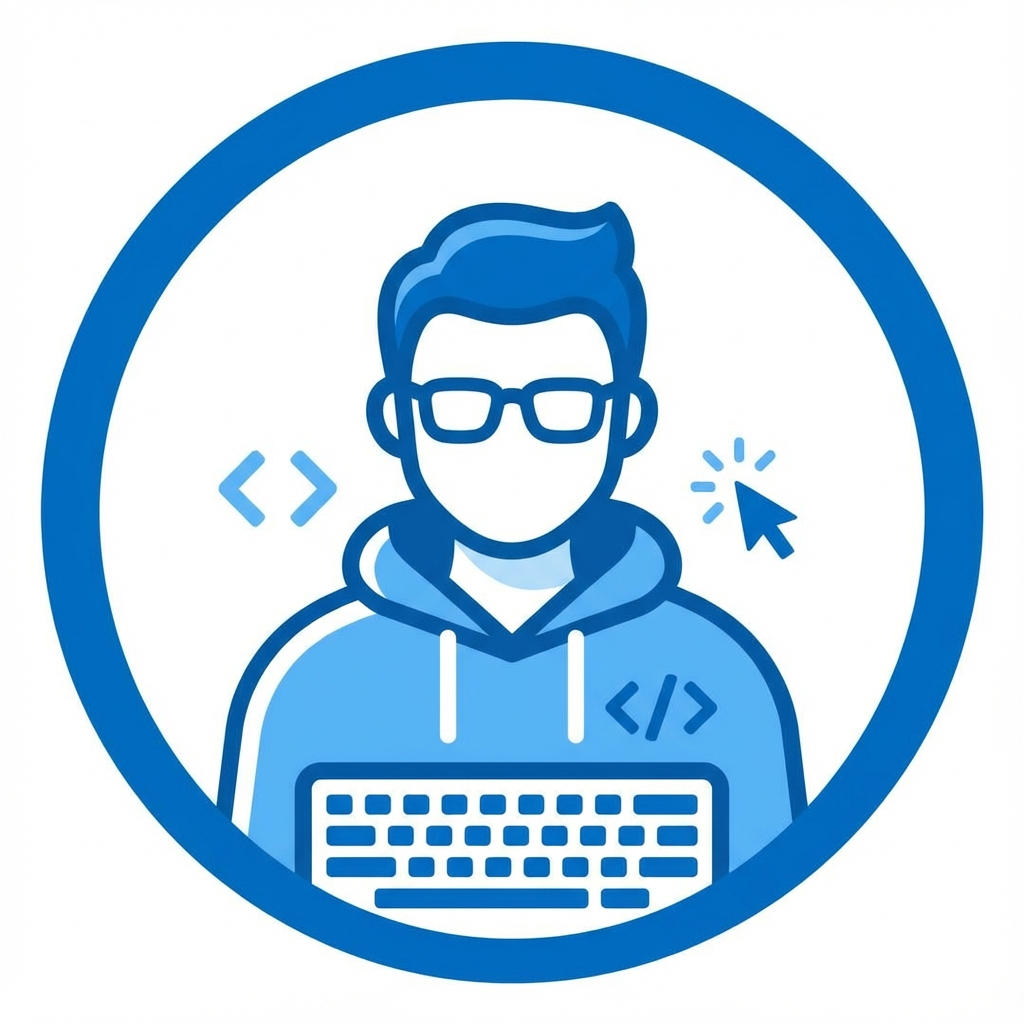
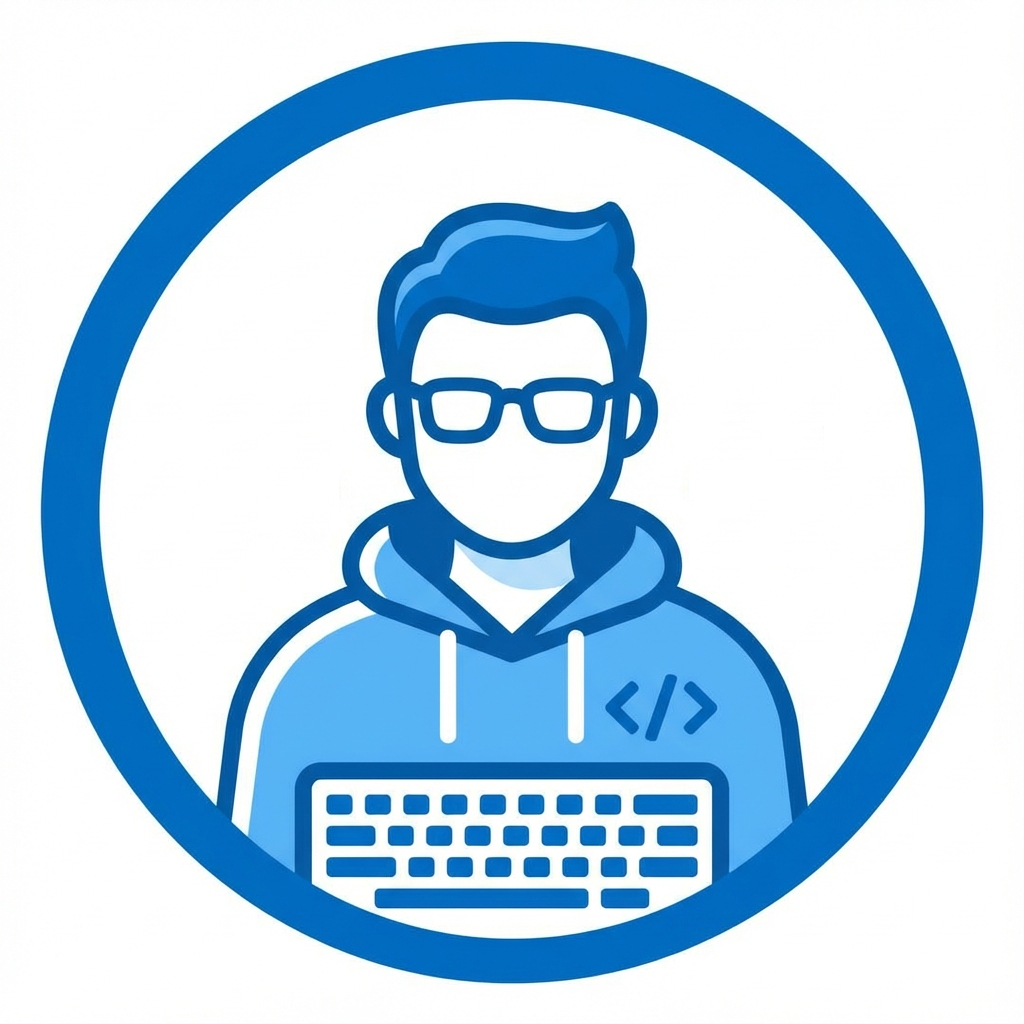
feat: implement scroll-based navigation with new Home page, `useScrollSpy` hook, and updated header.

Changed region(s): [[0.6562, 0.4375, 0.7812, 0.5625], [0.2188, 0.4375, 0.3438, 0.5312]]

diff --git a/src/components/layout/Header.tsx b/src/components/layout/Header.tsx
@@ -5,16 +5,29 @@ import { HiMenu, HiX } from 'react-icons/hi';
 import { FaGithub, FaLinkedin } from 'react-icons/fa';
 import { resumeData } from '../../data/resumeData';
 
-export const Header = () => {
+export const Header = ({ activeSection = 'hero', onNavigate }: { activeSection?: string; onNavigate?: (id: string) => void }) => {
     const [isOpen, setIsOpen] = useState(false);
 
     const navItems = [
-        { name: 'About', path: '/' },
-        { name: 'Experience', path: '/experience' },
-        { name: 'Skills', path: '/skills' },
-        { name: 'Projects', path: '/projects' },
-        { name: 'Demos', path: '/demos' },
+        { name: 'About', path: '/', id: 'hero' },
+        { name: 'Experience', path: '/experience', id: 'experience' },
+        { name: 'Skills', path: '/skills', id: 'skills' },
+        { name: 'Projects', path: '/projects', id: 'projects' },
+        { name: 'Demos', path: '/demos', id: 'demos' },
     ];
+
+    const isLinkActive = (itemPath: string, itemId: string) => {
+        if (itemPath === '/' && activeSection === 'hero') return true;
+        return activeSection === itemId;
+    };
+
+    const handleLinkClick = (e: React.MouseEvent, id: string) => {
+        e.preventDefault();
+        setIsOpen(false);
+        if (onNavigate) {
+            onNavigate(id);
+        }
+    };
 
     return (
         <header className="sticky top-0 z-50 bg-white/80 dark:bg-gray-900/80 backdrop-blur-md border-b border-gray-200 dark:border-gray-800 transition-colors duration-300">
@@ -31,18 +44,18 @@ export const Header = () => {
                     <div className="hidden md:flex items-center space-x-8">
                         <nav className="flex space-x-6">
                             {navItems.map((item) => (
-                                <NavLink
+                                <a
                                     key={item.name}
-                                    to={item.path}
-                                    className={({ isActive }) =>
-                                        `text-sm font-medium transition-colors duration-200 ${isActive
-                                            ? 'text-blue-600 dark:text-blue-400'
-                                            : 'text-gray-700 dark:text-gray-300 hover:text-blue-600 dark:hover:text-blue-400'
+                                    href={item.path}
+                                    onClick={(e) => handleLinkClick(e, item.id)}
+                                    className={`cursor-pointer text-sm font-medium transition-colors duration-200 ${isLinkActive(item.path, item.id)
+                                        ? 'text-blue-600 dark:text-blue-400'
+                                        : 'text-gray-700 dark:text-gray-300 hover:text-blue-600 dark:hover:text-blue-400'
                                         }`
                                     }
                                 >
                                     {item.name}
-                                </NavLink>
+                                </a>
                             ))}
                         </nav>
                         <div className="flex items-center space-x-4">
@@ -74,19 +87,18 @@ export const Header = () => {
                 <div className="md:hidden bg-white dark:bg-gray-900 border-b border-gray-200 dark:border-gray-800">
                     <div className="px-2 pt-2 pb-3 space-y-1 sm:px-3">
                         {navItems.map((item) => (
-                            <NavLink
+                            <a
                                 key={item.name}
-                                to={item.path}
-                                onClick={() => setIsOpen(false)}
-                                className={({ isActive }) =>
-                                    `block px-3 py-2 rounded-md text-base font-medium ${isActive
-                                        ? 'bg-blue-50 dark:bg-gray-800 text-blue-600 dark:text-blue-400'
-                                        : 'text-gray-700 dark:text-gray-300 hover:bg-gray-50 dark:hover:bg-gray-800'
+                                href={item.path}
+                                onClick={(e) => handleLinkClick(e, item.id)}
+                                className={`block px-3 py-2 rounded-md text-base font-medium ${isLinkActive(item.path, item.id)
+                                    ? 'bg-blue-50 dark:bg-gray-800 text-blue-600 dark:text-blue-400'
+                                    : 'text-gray-700 dark:text-gray-300 hover:bg-gray-50 dark:hover:bg-gray-800'
                                     }`
                                 }
                             >
                                 {item.name}
-                            </NavLink>
+                            </a>
                         ))}
                     </div>
                 </div>

diff --git a/src/components/layout/Layout.tsx b/src/components/layout/Layout.tsx
@@ -1,13 +1,89 @@
-import { Outlet } from 'react-router-dom';
+import { useEffect, useState } from 'react';
+import { Outlet, useLocation } from 'react-router-dom';
 import { Header } from './Header';
 import { Footer } from './Footer';
+import { useScrollSpy } from '../../hooks/useScrollSpy';
 
 export const Layout = () => {
+    const location = useLocation();
+    const [isManualScrolling, setIsManualScrolling] = useState(false);
+    const sections = ['hero', 'experience', 'skills', 'projects', 'demos'];
+
+    // Use custom hook, disabled during manual scrolling
+    // We pass !isManualScrolling as isEnabled
+    const spyActiveSection = useScrollSpy(sections, !isManualScrolling);
+
+    // effectiveActiveSection is stateful to allow immediate override during click
+    const [activeSection, setActiveSection] = useState('hero');
+
+    // Sync spy result to activeSection when enabled
+    useEffect(() => {
+        if (!isManualScrolling) {
+            setActiveSection(spyActiveSection);
+        }
+    }, [spyActiveSection, isManualScrolling]);
+
+    // Update URL when activeSection changes (only if observing)
+    useEffect(() => {
+        if (!isManualScrolling) {
+            const newPath = activeSection === 'hero' ? '/' : `/${activeSection}`;
+            if (window.location.pathname !== newPath) {
+                window.history.replaceState(null, '', newPath);
+            }
+        }
+    }, [activeSection, isManualScrolling]);
+
+    // Handle initial load or external navigation (e.g. back button)
+    // This is separate from the "click" handler which is internal
+    useEffect(() => {
+        if (isManualScrolling) return;
+
+        // Initial load or popstate
+        const path = location.pathname.substring(1);
+        const elementId = path || 'hero';
+
+        // Only scroll if we are mostly sure this isn't a spy update
+        // (The spy update sets replaceState, which doesn't trigger this usually, but just in case)
+        if (elementId !== activeSection) {
+            const element = document.getElementById(elementId);
+            if (element) {
+                // Determine if we need to scroll. 
+                // For simplified logic: just let CSS handle smooth scroll if needed.
+                // We trust the browser to restore scroll on back/forward usually? 
+                // Using 'auto' behavior here to snap or 'smooth' if desired.
+                // But for initial load, snap is better.
+                // element.scrollIntoView({ behavior: 'auto', block: 'start' });
+            }
+        }
+    }, [location.pathname]);
+
+
+    const handleNavigate = (id: string) => {
+        setIsManualScrolling(true);
+        setActiveSection(id); // Immediate UI feedback
+
+        const newPath = id === 'hero' ? '/' : `/${id}`;
+        window.history.pushState(null, '', newPath);
+
+        const element = document.getElementById(id);
+        if (element) {
+            element.scrollIntoView({ behavior: 'smooth', block: 'start' }); // CSS smooth might double up, check behavior
+            // Since we have CSS scroll-behavior: smooth, JS 'smooth' might not be needed OR 'auto' might key off CSS. 
+            // 'auto' uses CSS scroll-behavior.
+            // element.scrollIntoView({ behavior: 'auto', block: 'start' });
+        }
+
+        // Re-enable spy after animation
+        setTimeout(() => {
+            setIsManualScrolling(false);
+        }, 1000);
+    };
+
     return (
         <div className="min-h-screen flex flex-col bg-gray-50 dark:bg-black transition-colors duration-300 font-sans">
-            <Header />
+            <Header activeSection={activeSection} onNavigate={handleNavigate} />
             <main className="flex-grow">
-                <div className="max-w-7xl mx-auto px-4 sm:px-6 lg:px-8 py-8">
+                <div className="max-w-7xl mx-auto px-4 sm:px-6 lg:px-8 py-0">
                     <Outlet />
                 </div>
             </main>

diff --git a/src/hooks/useScrollNavigation.ts b/src/hooks/useScrollNavigation.ts
@@ -1,0 +1,63 @@
+import { useEffect, useRef } from 'react';
+import { useLocation, useNavigate } from 'react-router-dom';
+
+const ROUTES = ['/', '/experience', '/skills', '/projects', '/demos'];
+
+// Throttle helper
+const throttle = (func: (...args: any[]) => void, limit: number) => {
+    let inThrottle: boolean;
+    return function (this: any, ...args: any[]) {
+        if (!inThrottle) {
+            func.apply(this, args);
+            inThrottle = true;
+            setTimeout(() => (inThrottle = false), limit);
+        }
+    };
+};
+
+export const useScrollNavigation = () => {
+    const location = useLocation();
+    const navigate = useNavigate();
+    const lastScrollTime = useRef(0);
+    const THROTTLE_MS = 1000;
+
+    useEffect(() => {
+        const handleWheel = throttle((e: WheelEvent) => {
+            const now = Date.now();
+            if (now - lastScrollTime.current < THROTTLE_MS) return;
+
+            const currentPath = location.pathname;
+            const currentIndex = ROUTES.indexOf(currentPath);
+
+            if (currentIndex === -1) return;
+
+            // Check if scrolling down at the bottom of the page
+            if (e.deltaY > 0) {
+                const scrolledToBottom = window.innerHeight + window.scrollY >= document.documentElement.scrollHeight - 2; // -2 for rounding tolerance
+                if (scrolledToBottom) {
+                    if (currentIndex < ROUTES.length - 1) {
+                        lastScrollTime.current = now;
+                        navigate(ROUTES[currentIndex + 1]);
+                    }
+                }
+            }
+
+            // Check if scrolling up at the top of the page
+            else if (e.deltaY < 0) {
+                const scrolledToTop = window.scrollY <= 0;
+                if (scrolledToTop) {
+                    if (currentIndex > 0) {
+                        lastScrollTime.current = now;
+                        navigate(ROUTES[currentIndex - 1]);
+                    }
+                }
+            }
+        }, 100);
+
+        window.addEventListener('wheel', handleWheel);
+
+        return () => {
+            window.removeEventListener('wheel', handleWheel);
+        };
+    }, [location.pathname, navigate]);
+};

diff --git a/src/App.tsx b/src/App.tsx
@@ -1,21 +1,17 @@
 import { BrowserRouter as Router, Routes, Route } from 'react-router-dom';
 import { Layout } from './components/layout/Layout';
-import { Hero } from './components/sections/Hero';
-import { Experience } from './components/sections/Experience';
-import { Skills } from './components/sections/Skills';
-import { Projects } from './components/sections/Projects';
-import { Demos } from './components/demos/Demos';
+import { Home } from './components/pages/Home';
 
 function App() {
   return (
     <Router>
       <Routes>
         <Route path="/" element={<Layout />}>
-          <Route index element={<Hero />} />
-          <Route path="experience" element={<Experience />} />
-          <Route path="skills" element={<Skills />} />
-          <Route path="projects" element={<Projects />} />
-          <Route path="demos" element={<Demos />} />
+          <Route index element={<Home />} />
+          <Route path="experience" element={<Home />} />
+          <Route path="skills" element={<Home />} />
+          <Route path="projects" element={<Home />} />
+          <Route path="demos" element={<Home />} />
         </Route>
       </Routes>
     </Router>

diff --git a/src/hooks/useScrollSpy.ts b/src/hooks/useScrollSpy.ts
@@ -1,0 +1,32 @@
+import { useState, useEffect } from 'react';
+
+export const useScrollSpy = (sectionIds: string[], isEnabled: boolean = true) => {
+    const [activeSection, setActiveSection] = useState<string>('hero');
+
+    useEffect(() => {
+        if (!isEnabled) return;
+
+        const observer = new IntersectionObserver(
+            (entries) => {
+                entries.forEach((entry) => {
+                    if (entry.isIntersecting) {
+                        setActiveSection(entry.target.id);
+                    }
+                });
+            },
+            {
+                threshold: 0.3,
+                rootMargin: '-80px 0px -20% 0px'
+            }
+        );
+
+        sectionIds.forEach((id) => {
+            const element = document.getElementById(id);
+            if (element) observer.observe(element);
+        });
+
+        return () => observer.disconnect();
+    }, [isEnabled, sectionIds]);
+
+    return activeSection;
+};

diff --git a/src/components/pages/Home.tsx b/src/components/pages/Home.tsx
@@ -1,0 +1,31 @@
+import { Hero } from '../sections/Hero';
+import { Experience } from '../sections/Experience';
+import { Skills } from '../sections/Skills';
+import { Projects } from '../sections/Projects';
+import { Demos } from '../demos/Demos';
+
+export const Home = () => {
+    return (
+        <div className="space-y-0">
+            <section id="hero">
+                <Hero />
+            </section>
+
+            <section id="experience" className="py-20">
+                <Experience />
+            </section>
+
+            <section id="skills" className="py-20 bg-gray-50 dark:bg-gray-900/50">
+                <Skills />
+            </section>
+
+            <section id="projects" className="py-20">
+                <Projects />
+            </section>
+
+            <section id="demos" className="py-20 bg-gray-50 dark:bg-gray-900/50">
+                <Demos />
+            </section>
+        </div>
+    );
+};

diff --git a/src/index.css b/src/index.css
@@ -20,6 +20,12 @@
   /* Gray 100 */
 }
 
+html {
+  scroll-behavior: smooth;
+  scroll-padding-top: 5rem;
+  /* ~80px for sticky header */
+}
+
 body {
   background-color: var(--color-background);
   color: var(--color-text);
